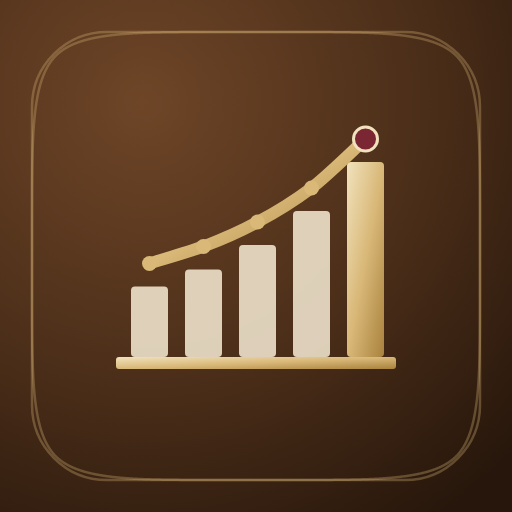
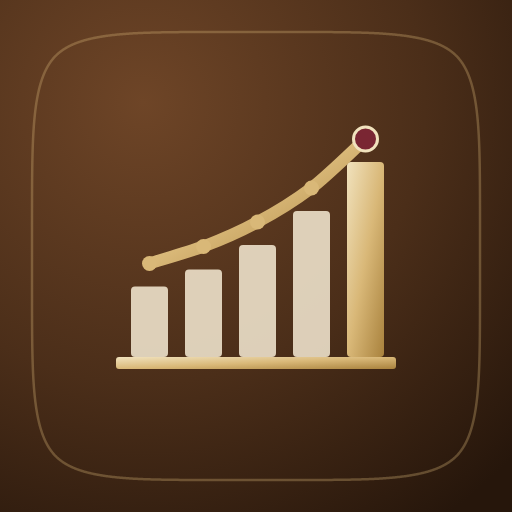
Iconos: quitar el marco rectangular que se había colado bajo el de iOS
Claude-Session: https://claude.ai/code/session_016k35bzsaVrxmGnMwsVbJwM

diff --git a/index.html b/index.html
@@ -11,7 +11,7 @@
 <meta name="mobile-web-app-capable" content="yes">
 <meta name="apple-mobile-web-app-title" content="CiccApps">
 <link rel="manifest" href="manifest.webmanifest">
-<link rel="apple-touch-icon" href="iconos/ciccapps-180.png?v=2">
+<link rel="apple-touch-icon" href="iconos/ciccapps-180.png?v=3">
 <link rel="icon" type="image/png" href="iconos/favicon-32.png">
 <link rel="stylesheet" href="compartido/ciccapps.css?v=10">
 <style>
@@ -62,10 +62,10 @@ header p { margin: 0; text-wrap: balance; font-family: var(--cc-serif); font-sty
   </header>
 
   <main class="apps">
-    <a class="app" href="bitacora/"><span class="ico"><img src="iconos/bitacora-192.png?v=2" alt=""></span><h2>Bitácora</h2><p>Plan de lectura, compras y qué leer según el mood.</p><small>Móvil y ordenador</small></a>
-    <a class="app" href="taquilla/"><span class="ico"><img src="iconos/la-taquilla-192.png?v=2" alt=""></span><h2>La Taquilla</h2><p>Diario de cine y series, con watchlist por mood.</p><small>Móvil y ordenador</small></a>
-    <a class="app" href="banda-sonora/"><span class="ico"><img src="iconos/banda-sonora-192.png?v=2" alt=""></span><h2>Banda Sonora</h2><p>Las doce listas de Spotify por momento y energía.</p><small>Móvil y ordenador</small></a>
-    <a class="app" href="interes-compuesto/"><span class="ico"><img src="iconos/interes-compuesto-192.png?v=2" alt=""></span><h2>Interés compuesto</h2><p>Presentación interactiva para clientes.</p><small>Ordenador</small></a>
+    <a class="app" href="bitacora/"><span class="ico"><img src="iconos/bitacora-192.png?v=3" alt=""></span><h2>Bitácora</h2><p>Plan de lectura, compras y qué leer según el mood.</p><small>Móvil y ordenador</small></a>
+    <a class="app" href="taquilla/"><span class="ico"><img src="iconos/la-taquilla-192.png?v=3" alt=""></span><h2>La Taquilla</h2><p>Diario de cine y series, con watchlist por mood.</p><small>Móvil y ordenador</small></a>
+    <a class="app" href="banda-sonora/"><span class="ico"><img src="iconos/banda-sonora-192.png?v=3" alt=""></span><h2>Banda Sonora</h2><p>Las doce listas de Spotify por momento y energía.</p><small>Móvil y ordenador</small></a>
+    <a class="app" href="interes-compuesto/"><span class="ico"><img src="iconos/interes-compuesto-192.png?v=3" alt=""></span><h2>Interés compuesto</h2><p>Presentación interactiva para clientes.</p><small>Ordenador</small></a>
   </main>
 
   <section class="instalar" aria-label="Cómo instalar">

diff --git a/taquilla/index.html b/taquilla/index.html
@@ -12,8 +12,8 @@
 <meta name="apple-mobile-web-app-title" content="La Taquilla">
 <meta name="apple-mobile-web-app-status-bar-style" content="default">
 <link rel="manifest" href="manifest.webmanifest">
-<link rel="apple-touch-icon" href="../iconos/la-taquilla-180.png?v=2">
-<link rel="icon" type="image/png" href="../iconos/la-taquilla-192.png?v=2">
+<link rel="apple-touch-icon" href="../iconos/la-taquilla-180.png?v=3">
+<link rel="icon" type="image/png" href="../iconos/la-taquilla-192.png?v=3">
 <link rel="stylesheet" href="../compartido/ciccapps.css?v=10">
 <link rel="preconnect" href="https://fonts.googleapis.com">
 <link rel="stylesheet" href="https://fonts.googleapis.com/css2?family=Bebas+Neue&family=Manrope:wght@400;500;600;700&family=JetBrains+Mono:wght@400;500&display=swap">
@@ -302,7 +302,7 @@ async function cargar(){
   if(r.error){document.getElementById("view").innerHTML='<p class="cargando">No se pudo cargar. Comprueba la conexión y vuelve a abrir la app.</p>';return}
   items={};r.data.forEach(x=>items[x.id]=deFila(x));listo=true;if(!editId)render();
 }
-CiccCuenta.iniciar({app:"La Taquilla",icono:"../iconos/la-taquilla-192.png?v=2",lema:"Cada película, una entrada"}).then(async r=>{
+CiccCuenta.iniciar({app:"La Taquilla",icono:"../iconos/la-taquilla-192.png?v=3",lema:"Cada película, una entrada"}).then(async r=>{
   sb=r.sb;CiccCuenta.firma("La Taquilla",document.getElementById("pie"));await cargar();
   document.addEventListener("visibilitychange",()=>{if(document.visibilityState==="visible"&&!editId)cargar()});
 });

diff --git a/bitacora/index.html b/bitacora/index.html
@@ -12,8 +12,8 @@
 <meta name="apple-mobile-web-app-title" content="Bitácora">
 <meta name="apple-mobile-web-app-status-bar-style" content="default">
 <link rel="manifest" href="manifest.webmanifest">
-<link rel="apple-touch-icon" href="../iconos/bitacora-180.png?v=2">
-<link rel="icon" type="image/png" href="../iconos/bitacora-192.png?v=2">
+<link rel="apple-touch-icon" href="../iconos/bitacora-180.png?v=3">
+<link rel="icon" type="image/png" href="../iconos/bitacora-192.png?v=3">
 <link rel="stylesheet" href="../compartido/ciccapps.css?v=10">
 <style>
 /* Layout: resumen + "ahora" arriba; tres vistas (Plan con estanterías por etapa, ¿Qué leo? por mood, Compras); ficha del libro como hoja inferior */
@@ -715,7 +715,7 @@ async function cargar(){
   if(!e.data.length){vistaEmpezar();return}
   document.body.classList.remove("nuevo");  construir(e.data,l.data);if(!sheetId)render();
 }
-CiccCuenta.iniciar({app:"Bitácora",icono:"../iconos/bitacora-192.png?v=2",lema:"¿Qué leo hoy?"}).then(async r=>{
+CiccCuenta.iniciar({app:"Bitácora",icono:"../iconos/bitacora-192.png?v=3",lema:"¿Qué leo hoy?"}).then(async r=>{
   sb=r.sb;CiccCuenta.firma("Bitácora",document.getElementById("pie"));await cargar();
   document.addEventListener("visibilitychange",()=>{if(document.visibilityState==="visible"&&!sheetId)cargar()});
 });

diff --git a/banda-sonora/index.html b/banda-sonora/index.html
@@ -6,8 +6,8 @@
 <meta name="apple-mobile-web-app-title" content="Banda Sonora">
 <meta name="apple-mobile-web-app-status-bar-style" content="black-translucent">
 <link rel="manifest" href="manifest.webmanifest">
-<link rel="apple-touch-icon" href="../iconos/banda-sonora-180.png?v=2">
-<link rel="icon" type="image/png" href="../iconos/banda-sonora-192.png?v=2">
+<link rel="apple-touch-icon" href="../iconos/banda-sonora-180.png?v=3">
+<link rel="icon" type="image/png" href="../iconos/banda-sonora-192.png?v=3">
 <link rel="stylesheet" href="../compartido/ciccapps.css?v=10">
 </head><body>
 

diff --git a/interes-compuesto/index.html b/interes-compuesto/index.html
@@ -18,8 +18,8 @@
 <meta name="mobile-web-app-capable" content="yes">
 <meta name="apple-mobile-web-app-title" content="Interés">
 <link rel="manifest" href="manifest.webmanifest">
-<link rel="apple-touch-icon" href="../iconos/interes-compuesto-180.png?v=2">
-<link rel="icon" type="image/png" href="../iconos/interes-compuesto-192.png?v=2">
+<link rel="apple-touch-icon" href="../iconos/interes-compuesto-180.png?v=3">
+<link rel="icon" type="image/png" href="../iconos/interes-compuesto-192.png?v=3">
 </head><body>
 
 <link rel="preconnect" href="https://fonts.googleapis.com">

diff --git a/sw.js b/sw.js
@@ -1,5 +1,5 @@
 /* CiccApps — funciona sin conexión: guarda una copia de cada app y sus piezas al visitarlas. */
-const CACHE = 'ciccapps-v11';
+const CACHE = 'ciccapps-v12';
 self.addEventListener('install', e => self.skipWaiting());
 self.addEventListener('activate', e => e.waitUntil(
   caches.keys().then(ks => Promise.all(ks.filter(k => k !== CACHE).map(k => caches.delete(k)))).then(() => self.clients.claim())
